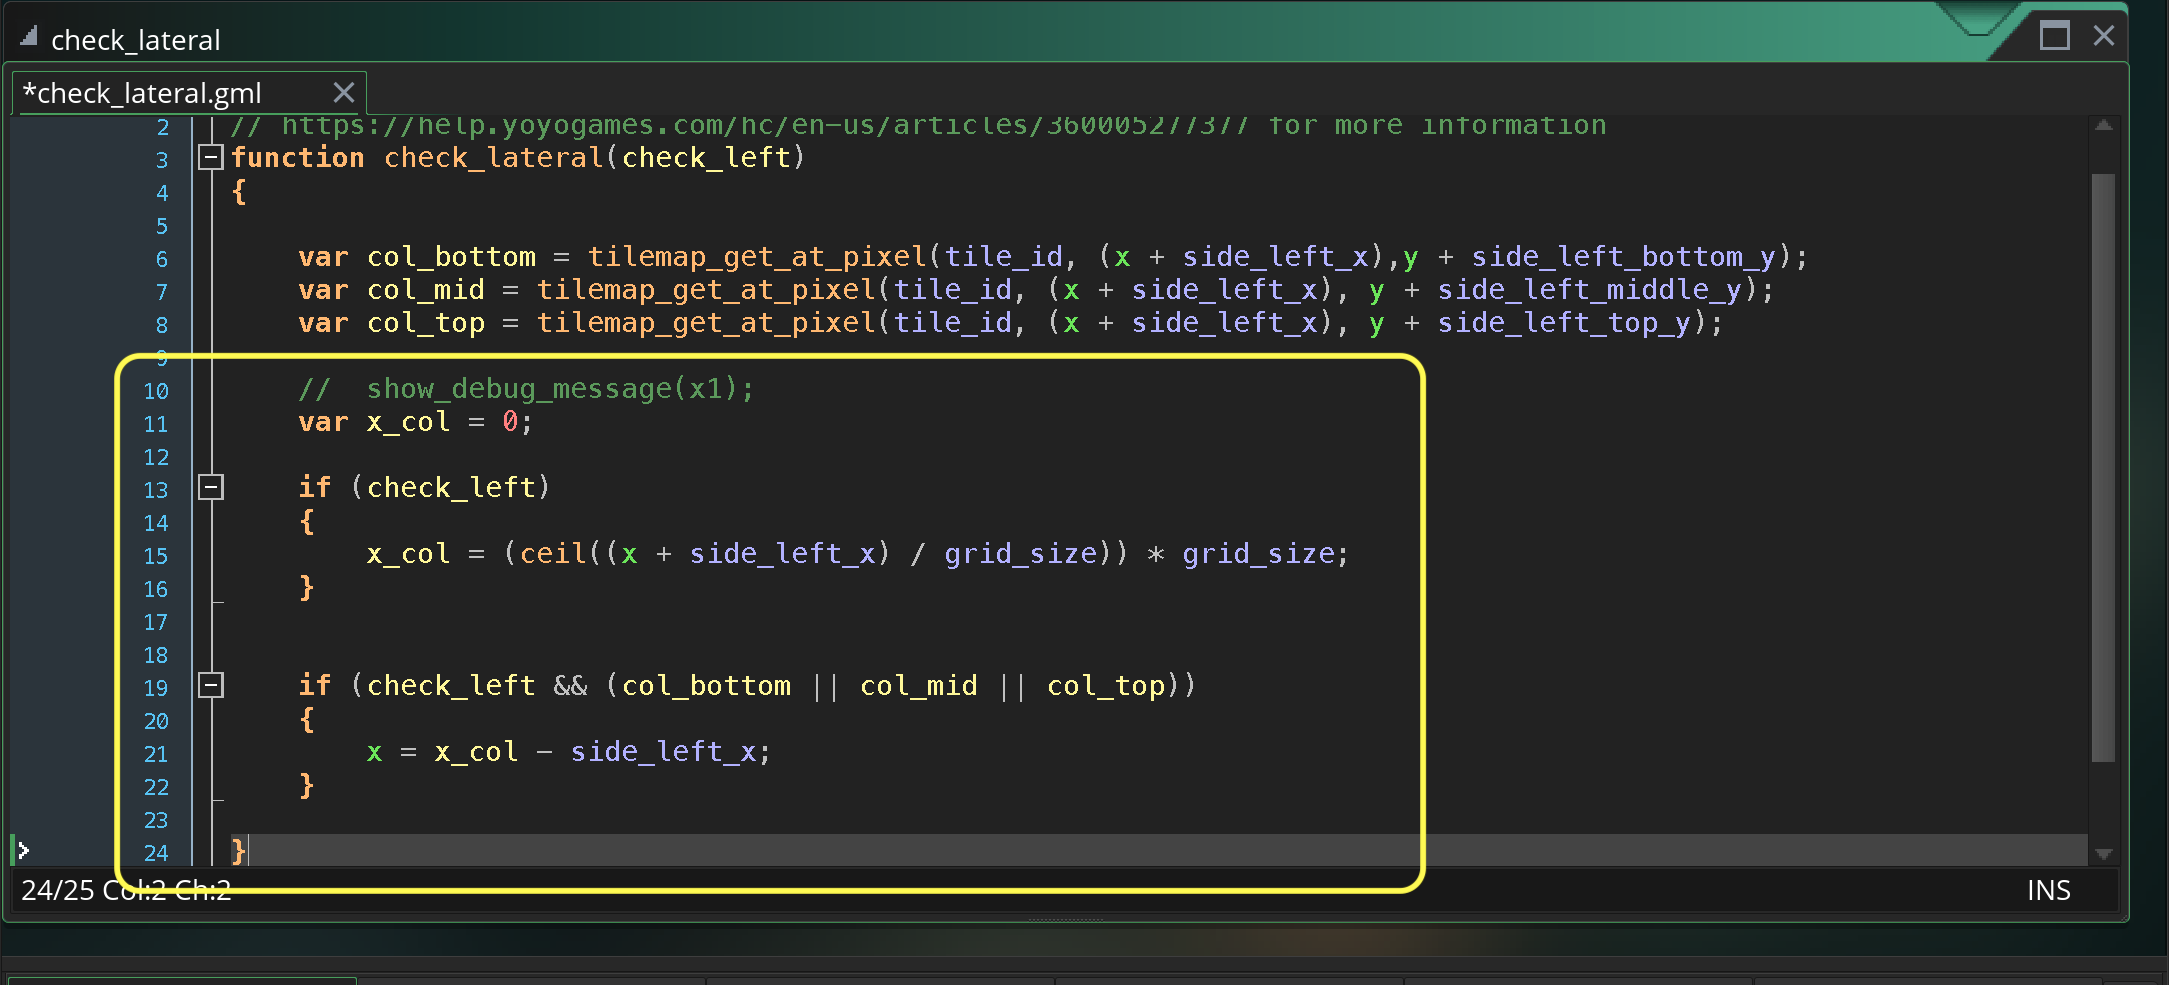
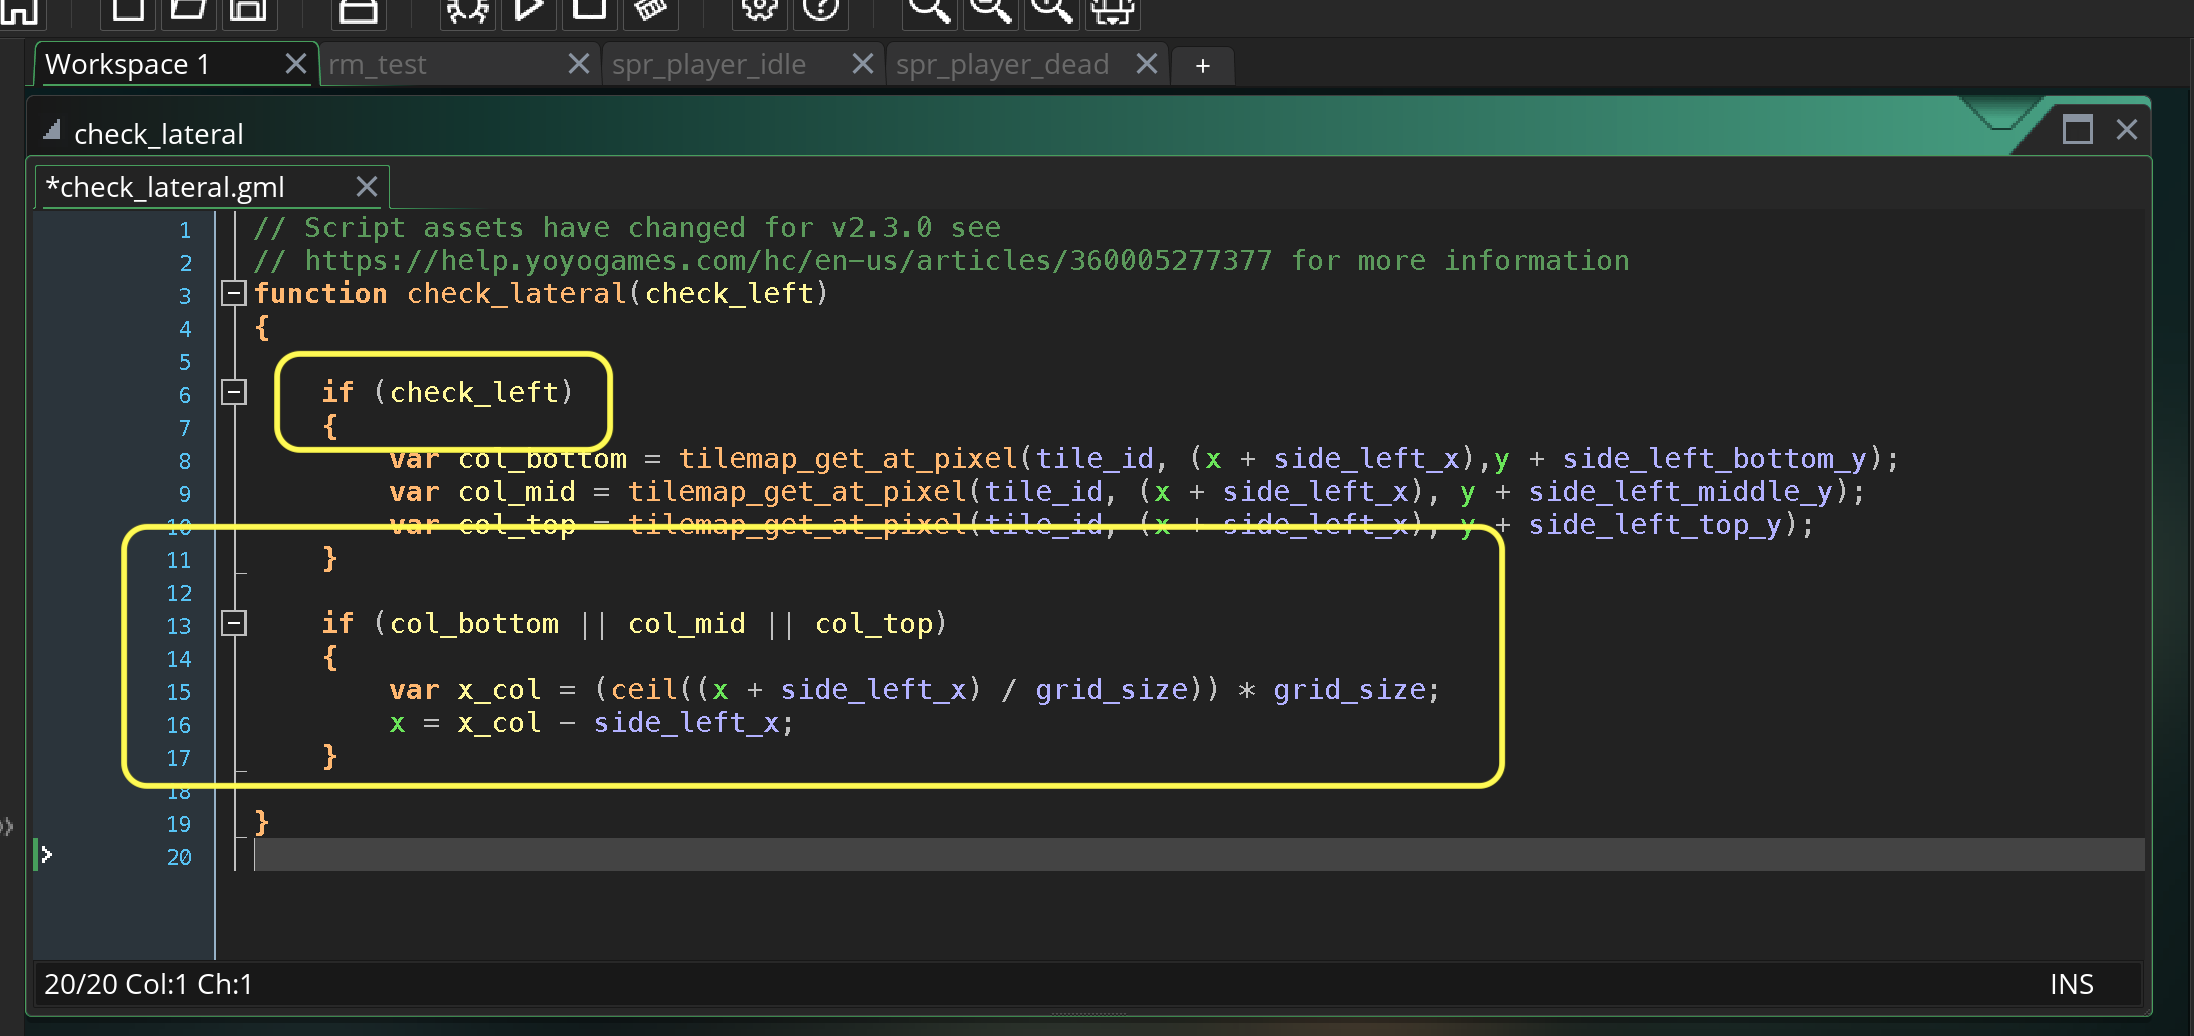
porting walk through

Changed region(s): [[0.0, 0.0, 1.0, 1.0], [0.4325, 0.5482, 0.6178, 0.5787], [0.4633, 0.9442, 0.4942, 0.9746]]

diff --git a/lateral-collision/README.md b/lateral-collision/README.md
@@ -81,7 +81,9 @@ The math is fairlty straight forward to get the player out of the collision area
 
 ##### `Step 9.`\|`SPCRK`| :small_orange_diamond: :small_blue_diamond: :small_blue_diamond: :small_blue_diamond: :small_blue_diamond:
 
-![alt_text](images/lateralLeftCollision.png)
+Go back to `check_lateral` **Script** and add a check to make sure that you are only checking the left feelers if `check_left` is true when passed to the function. Then after check to see if there is a collision in any of the feelers (will cover bottom 96 pixels) and if there is we will move the player to the right edge of the neighbouring tile.
+
+![set x to neighbouring tile](images/lateralLeftCollision.png)
 
 <img src="https://via.placeholder.com/500x2/45D7CA/45D7CA" alt="drawing" height="2px" alt = ""/>
 
